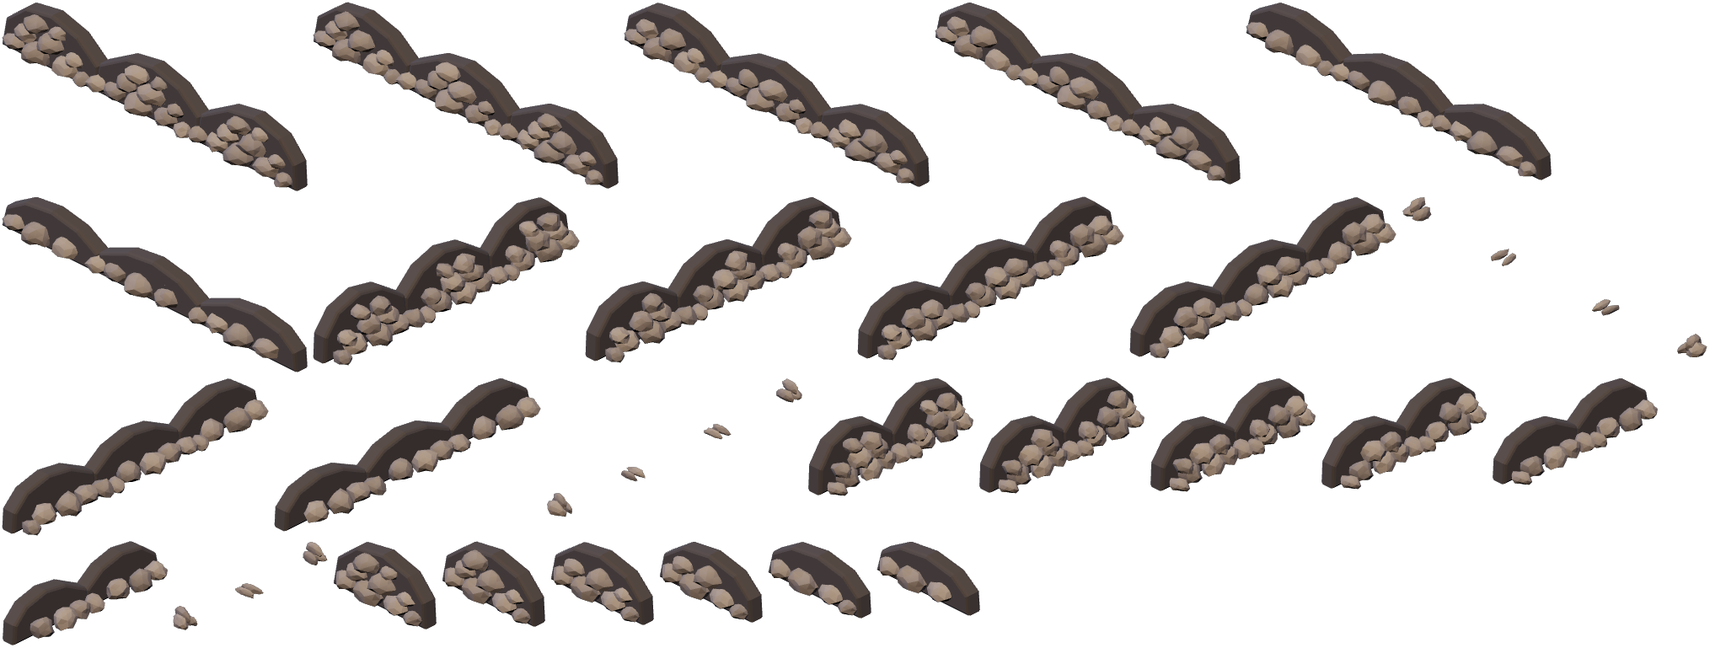
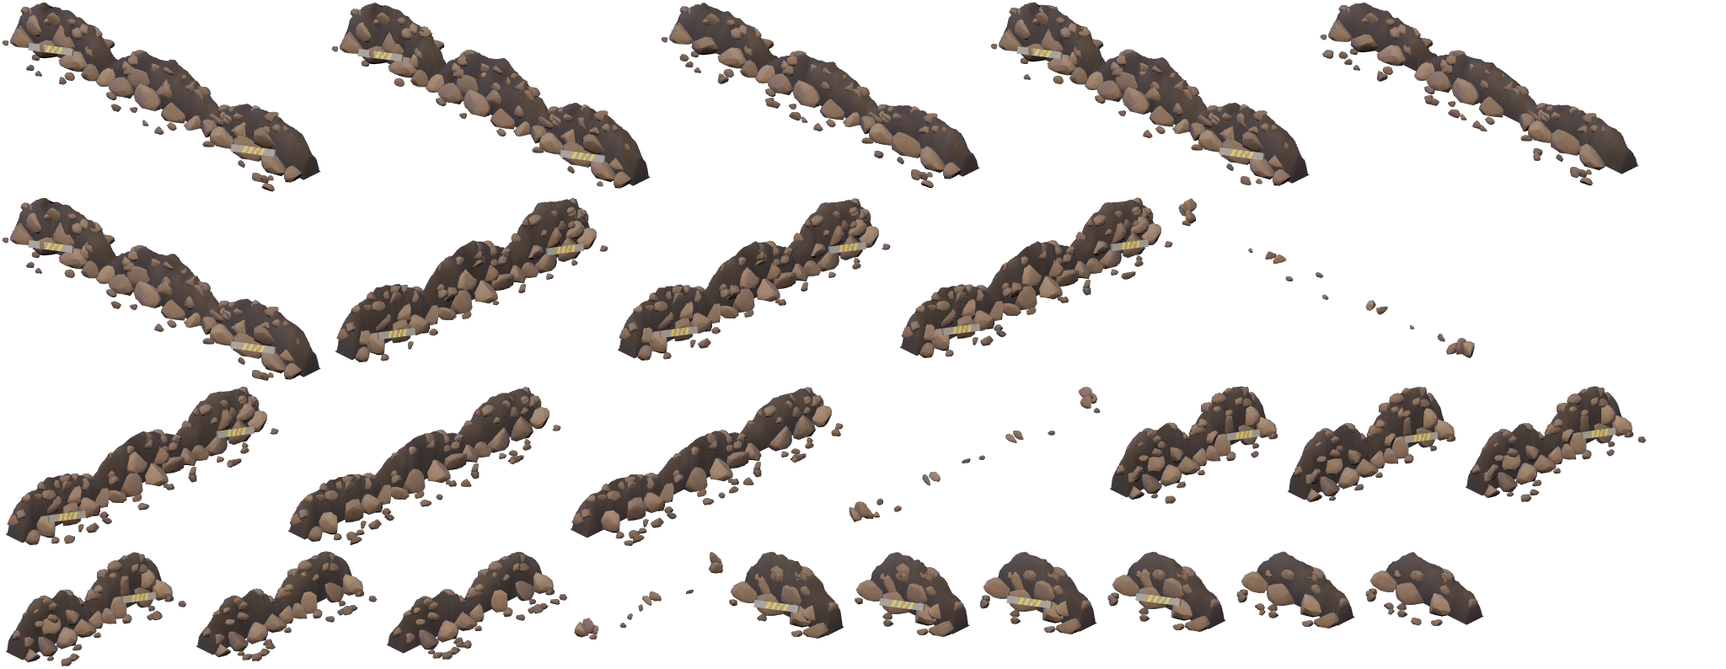
WIP the rubble as a rock fall in the cave's rock: big broken blocks over a dark rubble core, the seams baked on the stones
Claude-Session: https://claude.ai/code/session_0115DZYYhipQqSk6LHvQcEfz

diff --git a/design/cave/bake_rubble.js b/design/cave/bake_rubble.js
@@ -1,10 +1,12 @@
 // THE RUBBLE, MODELLED IN THE CAVE'S ROCK (the owner, 2026-11-09: "update the rubble patches make those look more like a cave rock"; "Approve the walls for everyone, then do the rubble").
-// Every rubble patch a fire technician drills (js/techabilities.js techDrawRubbleOn: the arena's south rubble, the Sewers' gate, bank and collapsed tunnel) is modelled in the walls' rock (design/cave/bake_walls.js):
+// Every rubble patch a fire technician drills (js/techabilities.js techDrawRubbleOn: the arena's south rubble, the Sewers' gate, bank and collapsed tunnel) is modelled as a rock fall in the walls' rock (design/cave/bake_walls.js):
 //   node design/cave/bake_rubble.js <three-dir>
 // 1. boots the game as the tests do and reads each rubble patch (its stretch along the wall, its piles of two tiles, its seed)
-// 2. models each pile's nine stones where the drawn pile had them (_TECH_RUBBLE: along the pile, how high, how wide, how tall), as chunks of the cave's brown rock, softly shaded, over a dark heap
-//    that fills the gap behind them; one picture for each stage of the drilling (the stones shown as the hits go in: 9, 8, 7, 6, 4, 3; the top ones go first) and one of what a drilled choke leaves
-// 3. renders them at the game's camera and scale (the props' lights) and packs them into img/cave/rubble.png; writes js/caverubble.js (each picture's place and where it goes from the patch's start)
+// 2. models it as ONE pile along the whole stretch: a rocky mound shaded as the walls are, angular blocks of the same brown rock over it (the big ones low and in front, the small ones on top), the drawn
+//    pile's hazard-painted slab across it (every other pile of a long one), and, for rubble against a wall, the dark of the hollow it fills behind it. One picture for each stage of the drilling (the stones
+//    shown as the hits go in: 9, 8, 7, 6, 4, 3): the pile lower, its top blocks gone and some lying at its foot, the dark of the hollow showing over it; and one of what a drilled choke leaves
+// 3. renders them at the game's camera and scale (the props' and the walls' lights) and packs them into img/cave/rubble.png; writes js/caverubble.js (each picture's place, where it goes from the patch's start,
+//    and the seams that glow as it is drilled, on the screen from the same point)
 const fs = require('fs'), vm = require('vm'), path = require('path');
 const { chromium } = require('/opt/node22/lib/node_modules/playwright');
 const ROOT = path.join(__dirname, '..', '..');
@@ -31,41 +33,94 @@ window.__pile = function (R, stage) {
   const sm = t => t * t * (3 - 2 * t);
   const n3 = (x, y, z) => { const xi = Math.floor(x), yi = Math.floor(y), zi = Math.floor(z), xf = sm(x - xi), yf = sm(y - yi), zf = sm(z - zi); let v = 0;
     for (let a = 0; a < 2; a++) for (let b = 0; b < 2; b++) for (let c = 0; c < 2; c++) v += h3(xi + a, yi + b, zi + c) * (a ? xf : 1 - xf) * (b ? yf : 1 - yf) * (c ? zf : 1 - zf); return v; };
+  const fbm = (x, y, z) => 0.6 * n3(x, y, z) + 0.3 * n3(x * 2.1, y * 2.1, z * 2.1) + 0.1 * n3(x * 4.3, y * 4.3, z * 4.3);
   const lin = h => new T.Color(h).convertSRGBToLinear();
-  const base = lin(0x4a3f37), dark = lin(0x1d1714), light = lin(0x7a6a5c), tones = [0x52463d, 0x4a3f37, 0x5a4d42, 0x463c35].map(lin);
-  const A = R.a, dir = [(R.b[0] - A[0]) / R.len, (R.b[1] - A[1]) / R.len], n = R.n, W2 = (u, off) => [A[0] + dir[0] * u * R.len + n[0] * off, A[1] + dir[1] * u * R.len + n[1] * off];
-  const rock = window.__MAT || (window.__MAT = (() => { const m = new T.MeshStandardMaterial({ vertexColors: true, roughness: 0.95, metalness: 0, flatShading: false }); m.envMapIntensity = 0.25; return m; })());
+  // the walls' rock (design/cave/bake_walls.js); its blocks a shade lighter, broken rock (the drawn pile's stones were lighter than the cliff round them)
+  const base = lin(0x4a3f37), dark = lin(0x1d1714), light = lin(0x7a6a5c), hollow = lin(0x0b0807), tones = [0x504034, 0x4a3b30, 0x574638, 0x46382d].map(lin), chipT = [0x40332a, 0x3c3027, 0x46382e].map(lin);   // (warm: the props' blue rim light cools their left faces)
+  const A = R.a, L = R.len, dir = [(R.b[0] - A[0]) / L, (R.b[1] - A[1]) / L], n = R.n, segs = R.segs, SEG = L / segs, S0 = (R.seed % 997) + 0.5, rocks = R.rocks;
+  const left = stage === 'left', show = left ? 0 : stage, s = show / 9, sc = 0.55 + 0.45 * s;   // (sc: the dark it fills shrinks as the drawn pile's did)
+  // where things are: u along the stretch (tiles), d out from its line toward the camera's side (tiles), z px up; three's world is (game x, height, game y)
+  const P3 = (u, d, z) => new T.Vector3(A[0] + dir[0] * u + n[0] * d, z / UH, A[1] + dir[1] * u + n[1] * d);
+  const SX = (gx, gy) => (gx - gy - (A[0] - A[1])) * 60, SY = (gx, gy, z) => (gx + gy - (A[0] + A[1])) * 30 - z;   // the screen, from the patch's start at the floor
+  const rowD = zb => zb > 30 ? 0.03 : zb > 10 ? 0.16 : 0.3;   // each row of the pile stands back from the one under it (the bottom row in front)
+  const MAT = window.__MAT || (window.__MAT = (() => { const rock = new T.MeshStandardMaterial({ vertexColors: true, roughness: 0.95, metalness: 0, flatShading: false, side: T.DoubleSide }); rock.envMapIntensity = 0.25;
+    const tex = (() => { const c = document.createElement('canvas'); c.width = 256; c.height = 40; const x = c.getContext('2d'); x.fillStyle = '#625d54'; x.fillRect(0, 0, 256, 40);
+      for (let k = 0; k < 260; k++) { x.fillStyle = 'rgba(40,34,28,' + (0.05 + 0.12 * h3(k, 1, 2)).toFixed(3) + ')'; x.fillRect(h3(k, 3, 4) * 256, h3(k, 5, 6) * 40, 1 + 3 * h3(k, 7, 8), 1 + 2 * h3(k, 9, 1)); }
+      x.fillStyle = '#a3820a'; for (let k = 0; k < 4; k++) { const x0 = 66 + k * 34; x.beginPath(); x.moveTo(x0, 40); x.lineTo(x0 + 15, 40); x.lineTo(x0 + 31, 0); x.lineTo(x0 + 16, 0); x.closePath(); x.fill(); }   // the hazard paint (the drawn slab's four stripes)
+      x.strokeStyle = 'rgba(20,16,12,0.85)'; x.lineWidth = 2; x.beginPath(); x.moveTo(150, 0); x.lineTo(146, 12); x.lineTo(154, 22); x.lineTo(149, 40); x.stroke();   // and its crack
+      const t = new T.CanvasTexture(c); t.encoding = T.sRGBEncoding; return t; })();
+    const painted = new T.MeshStandardMaterial({ map: tex, roughness: 0.85, metalness: 0 }), plain = new T.MeshStandardMaterial({ color: lin(0x47433d), roughness: 0.9, metalness: 0 });
+    painted.envMapIntensity = plain.envMapIntensity = 0.25;
+    return { rock, painted, plain }; })());
   const g = new T.Group();
-  // a stone: a lumpy low-poly chunk of the cave's rock, softly shaded, its top lighter and its underside dark; (u, zb px) its foot, w its width (of the stretch), h px its height
-  const stone = (u, zb, w, h, off, seed, tone) => { const q = new T.IcosahedronGeometry(1, 1), a = q.attributes.position, c2 = new Float32Array(a.count * 3), key = new Map();
-    for (let i = 0; i < a.count; i++) { const x = a.getX(i), y = a.getY(i), z = a.getZ(i), id = Math.round(x * 100) + ',' + Math.round(y * 100) + ',' + Math.round(z * 100);
-      let k = key.get(id); if (k === undefined) { k = 0.78 + 0.44 * n3(x * 2.5 + seed, y * 2.5, z * 2.5 + seed * 0.3); key.set(id, k); }
-      a.setXYZ(i, x * k, Math.max(y * k, -0.55), z * k);
-      const up = 0.5 + 0.5 * y, cc = tone.clone().lerp(light, Math.max(0, up - 0.55) * 0.7).lerp(dark, Math.max(0, 0.4 - up) * 1.1); c2[i * 3] = cc.r; c2[i * 3 + 1] = cc.g; c2[i * 3 + 2] = cc.b; }
-    q.setAttribute('color', new T.BufferAttribute(c2, 3)); q.computeVertexNormals();
-    const m = new T.Mesh(q, rock), Wt = w * R.len / 2, Hu = h / UH / 2, Dt = Math.min(0.32, Math.max(0.16, Wt * 0.9)), c = W2(u, off);
-    m.scale.set(Wt, Hu, Dt); m.rotation.y = -Math.atan2(dir[1], dir[0]) + (h3(seed, 2, 5) - 0.5) * 0.5; m.position.set(c[0], (zb + h * 0.42) / UH, c[1]); g.add(m); };
-  const segs = R.segs, rocks = R.rocks;
-  if (stage === 'left') {   // what a drilled choke leaves: stones at the foot of each side, and where the piles met
-    [[0.1, 0, 0.1], [0.19, 0, 0.07], [0.9, 0, 0.11], [0.8, 0, 0.06], [0.14, 8, 0.06], [0.87, 7, 0.07]].forEach(([u, z, w], k) => stone(u < 0.5 ? u / segs : 1 - (1 - u) / segs, z, w / segs, 12 + (k % 3) * 3, 0.12, R.seed + k * 13, tones[k % 4]));
-    for (let sg = 1; sg < segs; sg++) [[-0.04, 0.05], [0.05, 0.035]].forEach(([du, w], k) => stone((sg + du) / segs, 0, w / segs, 10, 0.12, R.seed + sg * 31 + k, tones[(sg + k) % 4]));
-  } else {
-    const show = stage;
-    for (let sg = 0; sg < segs; sg++) {
-      const seed = (R.seed + sg * 7919) >>> 0, U = u => (sg + u) / segs;
-      // the dark heap behind the stones (the gap the pile fills): a low mound along the pile, against the wall
-      const u0 = sg ? 0 : 0.08, u1 = sg === segs - 1 ? 0.95 : 1, prof = [[u0, 0], [u0 + 0.04, 30], [0.3, 52], [0.55, 58], [0.8, 48], [u1 - 0.01, 26], [u1, 0]].map(([u, z]) => [u, z * (0.55 + 0.45 * show / 9)]);
-      const heap = new T.Shape(); prof.forEach(([u, z], i) => { const x = U(u) * R.len; i ? heap.lineTo(x, z / UH) : heap.moveTo(x, z / UH); });
-      const hg = new T.ExtrudeGeometry(heap, { depth: 0.16, bevelEnabled: true, bevelThickness: 0.05, bevelSize: 0.04, bevelSegments: 2 }), hc = new Float32Array(hg.attributes.position.count * 3);
-      for (let i = 0; i < hg.attributes.position.count; i++) { const cc = dark.clone().lerp(base, 0.25); hc[i * 3] = cc.r; hc[i * 3 + 1] = cc.g; hc[i * 3 + 2] = cc.b; }
-      hg.setAttribute('color', new T.BufferAttribute(hc, 3)); hg.computeVertexNormals();
-      const hm = new T.Mesh(hg, rock); hm.rotation.y = -Math.atan2(dir[1], dir[0]); hm.position.set(A[0] - n[0] * 0.08, 0, A[1] - n[1] * 0.08); g.add(hm);
-      for (let k = 0; k < Math.min(show, rocks.length); k++) { const [uc, zb, w, h] = rocks[k]; stone(U(uc), zb, w / segs, h, 0.1 + 0.06 * (k % 2), seed + k * 17, tones[(k + seed) % 4]); }
-      if (sg && show > 2) stone(U(0.02), 0, 0.18 / segs, 20, 0.12, seed + 11, tones[(seed + 3) % 4]);   // (a boulder across the joint with the pile before it)
-    }
+  // THE DARK THE PILE FILLS (the drawn pile's dark gap, two tiles to a pile, shrinking as it is drilled): a lumpy mound of the rock in shadow behind and under the blocks, its top ragged
+  const core = u => { const sg = Math.min(segs - 1, Math.max(0, Math.floor(u / SEG))), x = u / SEG - sg, u0 = sg ? 0 : 0.08, u1 = sg === segs - 1 ? 0.95 : 1;
+    const pts = [[u0, sg ? 22 : 0], [u0 + 0.04, 30], [0.3, 52], [0.55, 58], [0.8, 48], [u1 - 0.01, 26], [u1, sg < segs - 1 ? 22 : 0]];   // (where two piles meet the dark carries on, lower)
+    if (x <= pts[0][0] || x >= pts[pts.length - 1][0]) return x <= pts[0][0] ? pts[0][1] * (x >= pts[0][0] - 1e-6 ? 1 : 0) : pts[pts.length - 1][1] * (x <= pts[pts.length - 1][0] + 1e-6 ? 1 : 0);
+    for (let k = 1; k < pts.length; k++) if (x <= pts[k][0]) { const t = (x - pts[k - 1][0]) / (pts[k][0] - pts[k - 1][0]); return pts[k - 1][1] + (pts[k][1] - pts[k - 1][1]) * t; } return 0; };
+  const coreH = u => core(u) * sc * (0.9 + 0.2 * fbm(S0 + u * 4.3, 1.1, 3.7));
+  const dC = t => 0.04 + t * (t >= 0 ? 0.2 : 0.14), pr = t => Math.pow(Math.max(0, 1 - t * t), 0.6);   // (across it: t -1 its back, 0 its top, 1 its front foot)
+  if (!left) { const pos = [], col = [], idx = [], NU = Math.max(12, Math.ceil(L / 0.03)), NT = 10, grid = [];
+    for (let i = 0; i <= NU; i++) { const u = L * i / NU, H = coreH(u), row = [];
+      for (let j = 0; j <= NT; j++) { const t = -1 + 2 * j / NT, z0 = H * pr(t), w = P3(u, dC(t), 0), big = fbm(w.x * 3.1 + 3, z0 / UH * 3 + 1, w.z * 3.1 + 1.7), small = fbm(w.x * 8.3, z0 / UH * 7 + 9, w.z * 8.3 + 5.3);
+        const inner = Math.abs(t) < 1 && z0 > 2 ? 1 : 0, bump = ((big - 0.5) * 0.6 + (small - 0.5) * 0.3) * inner, z = Math.max(0, z0 + bump * 16), k = Math.max(0, Math.min(1, 0.5 + (big - 0.5) * 1.6 + (small - 0.5) * 0.6));
+        const c = dark.clone().lerp(base, 0.08 + 0.32 * k).lerp(hollow, 0.4 * (1 - Math.min(1, z / 20))), v = P3(u, dC(t) + bump * 0.12 * (t < 0 ? -1 : 1), z);
+        pos.push(v.x, v.y, v.z); col.push(c.r, c.g, c.b); row.push(pos.length / 3 - 1); }
+      grid.push(row); }
+    for (let i = 0; i < NU; i++) for (let j = 0; j < NT; j++) { const a = grid[i][j], b = grid[i + 1][j], c = grid[i + 1][j + 1], d = grid[i][j + 1];
+      if (Math.max(pos[a * 3 + 1], pos[b * 3 + 1], pos[c * 3 + 1], pos[d * 3 + 1]) * UH < 0.5) continue; idx.push(a, b, c, a, c, d); }   // (none flat on the floor where the dark is nothing)
+    const i0 = Math.floor(NU / 2), j0 = Math.floor(NT / 2), q = k => new T.Vector3(pos[k * 3], pos[k * 3 + 1], pos[k * 3 + 2]), pa = q(grid[i0][j0]);   // (its winding: every triangle's front up, so it is lit)
+    if (new T.Vector3().subVectors(q(grid[i0 + 1][j0]), pa).cross(new T.Vector3().subVectors(q(grid[i0 + 1][j0 + 1]), pa)).y < 0) for (let k = 0; k < idx.length; k += 3) { const t = idx[k + 1]; idx[k + 1] = idx[k + 2]; idx[k + 2] = t; }
+    const geo = new T.BufferGeometry(); geo.setAttribute('position', new T.Float32BufferAttribute(pos, 3)); geo.setAttribute('color', new T.Float32BufferAttribute(col, 3)); geo.setIndex(idx); geo.computeVertexNormals();
+    g.add(new T.Mesh(geo, MAT.rock)); }
+  // A BLOCK of the rock, broken: a lumpy low-poly lump cut flat where it broke, softly lit with its facets still showing, its top a little lighter and its underside dark
+  const keyOf = (a, v) => Math.round(a.getX(v) * 1e4) + ',' + Math.round(a.getY(v) * 1e4) + ',' + Math.round(a.getZ(v) * 1e4);
+  const block = (u, d, zb, rx, ry, rz, seed, tone) => { const q = new T.IcosahedronGeometry(1, 1), a = q.attributes.position, cnt = a.count, kk = new Map(), cuts = [];
+    for (let c = 0; c < 4; c++) { const th = (h3(seed, c, 1) + c * 0.25) * 2 * PI, ph = (h3(seed, c, 2) - 0.3) * 1.2; cuts.push([new T.Vector3(Math.cos(th) * Math.cos(ph), Math.sin(ph), Math.sin(th) * Math.cos(ph)), 0.38 + 0.24 * h3(seed, c, 3)]); }
+    for (let v = 0; v < cnt; v++) { const x = a.getX(v), y = a.getY(v), z = a.getZ(v), id = Math.round(x * 1e3) + ',' + Math.round(y * 1e3) + ',' + Math.round(z * 1e3);
+      let P = kk.get(id); if (!P) { const k = 0.85 + 0.3 * n3(x * 1.7 + seed, y * 1.7, z * 1.7 + seed * 0.37); P = new T.Vector3(x * k, y * k, z * k);   // (a corner moved the same way on every face it is on: no cracks)
+        for (const [m, o] of cuts) { const dd = P.dot(m) - o; if (dd > 0) P.addScaledVector(m, -dd); }   // (flat where it broke)
+        P.y = Math.max(P.y, -0.55); kk.set(id, P); }
+      a.setXYZ(v, P.x, P.y, P.z); }
+    const acc = new Map(), fn = [], e1 = new T.Vector3(), e2 = new T.Vector3(), p0 = new T.Vector3(), p1 = new T.Vector3(), p2 = new T.Vector3();
+    for (let v = 0; v < cnt; v += 3) { p0.fromBufferAttribute(a, v); p1.fromBufferAttribute(a, v + 1); p2.fromBufferAttribute(a, v + 2); const nn = e1.subVectors(p1, p0).clone().cross(e2.subVectors(p2, p0));
+      for (let w = 0; w < 3; w++) { const id = keyOf(a, v + w), s2 = acc.get(id); if (s2) s2.add(nn); else acc.set(id, nn.clone()); } fn.push(nn.normalize()); }
+    const nrm = new Float32Array(cnt * 3), c2 = new Float32Array(cnt * 3);
+    for (let v = 0; v < cnt; v++) { const f = fn[Math.floor(v / 3)], m = acc.get(keyOf(a, v)).clone().normalize().multiplyScalar(0.35).add(f.clone().multiplyScalar(0.65)).normalize(); nrm[v * 3] = m.x; nrm[v * 3 + 1] = m.y; nrm[v * 3 + 2] = m.z;
+      const y = a.getY(v), c = tone.clone().multiplyScalar(0.94 + 0.12 * h3(seed, Math.floor(v / 3), 7)).lerp(light, Math.max(0, y) * 0.12).lerp(dark, Math.max(0, -y - 0.1) * 1.0); c2[v * 3] = c.r; c2[v * 3 + 1] = c.g; c2[v * 3 + 2] = c.b; }
+    q.setAttribute('normal', new T.BufferAttribute(nrm, 3)); q.setAttribute('color', new T.BufferAttribute(c2, 3));
+    const m = new T.Mesh(q, MAT.rock), c = P3(u, d, 0); m.scale.set(rx, ry, rz);
+    m.rotation.set((h3(seed, 4, 4) - 0.5) * 0.3, -Math.atan2(dir[1], dir[0]) + (h3(seed, 5, 5) - 0.5) * 0.6, (h3(seed, 6, 6) - 0.5) * 0.3); m.position.set(c.x, (zb / UH) + ry * 0.5, c.z); g.add(m); };
+  if (!left) for (let sg = 0; sg < segs; sg++) { const seed = (R.seed + sg * 7919) >>> 0, U = u => (sg + u) * SEG, sd = k => (seed % 1009) + k * 13.7;
+    // THE STONES of the drawn pile, where it had them, as big blocks of the rock (the top ones go first as it is drilled), and one across the joint with the pile before it
+    for (let k = 0; k < Math.min(show, rocks.length); k++) { const [uc, zb, w, h] = rocks[k], rx = w * SEG / 2 * 1.15, ry = h / UH / 2 * 1.12;
+      block(U(uc), rowD(zb), Math.max(0, zb - 3), rx, ry, 0.15 + 0.05 * h3(sd(k), 1, 1), sd(k), tones[(k + seed) % tones.length]); }
+    if (sg && show > 2) block(U(0.02), 0.26, 0, 0.18 * SEG / 2 * 1.1, 20 / UH / 2 * 1.1, 0.16, sd(11), tones[(seed + 3) % tones.length]);
+    // the dark is rubble too: blocks half sunk in it all over, darker (in its shadow)
+    for (let k = 0; k < 14; k++) { const u = U(0.06 + 0.88 * h3(sd(k), 11, 1)), t = -0.2 + 0.95 * h3(sd(k), 12, 2), zc = coreH(u) * pr(t), r = 0.06 + 0.06 * h3(sd(k), 13, 3);
+      if (zc < 8) continue; block(u, dC(t), Math.max(0, zc - r * 0.8 * UH * 1.1), r * 1.3, r * 0.8, r, sd(k) + 170, chipT[k % chipT.length].clone().lerp(tones[k % tones.length], 0.5)); }
+    // smaller stones in its crevices and along its crest, and at its foot; what the drilling knocks off lies further out
+    for (let k = 0; k < 3; k++) { const u = U(0.16 + 0.32 * k + 0.1 * (h3(sd(k), 2, 3) - 0.5)), r = 0.045 + 0.03 * h3(sd(k), 3, 4); block(u, 0.5 + 0.06 * h3(sd(k), 4, 5), 0, r * 1.3, r * 0.8, r, sd(k) + 50, chipT[k % chipT.length]); }
+    for (let k = 0; k < 3; k++) { const u = U(0.3 + 0.21 * k + 0.06 * (h3(sd(k), 6, 7) - 0.5)), r = 0.05 + 0.03 * h3(sd(k), 7, 8), zc = coreH(u); if (zc > 12) block(u, 0.0, zc - 10, r * 1.3, r * 0.8, r, sd(k) + 90, chipT[(k + 1) % chipT.length]); }
+    for (let k = 0; k < 9 - show; k++) { const u = U(0.12 + 0.76 * h3(sd(k), 8, 9)), r = 0.05 + 0.035 * h3(sd(k), 9, 1); block(u, 0.62 + 0.18 * h3(sd(k), 1, 2), 0, r * 1.3, r * 0.8, r, sd(k) + 130, chipT[k % chipT.length]); }
+  } else {   // what a drilled choke leaves (the drawn pile's): blocks at the foot of each side and where the piles met
+    for (const [u, z, w, k] of [[0.1, 0, 0.1, 0], [0.19, 0, 0.07, 1], [0.9, 0, 0.11, 2], [0.8, 0, 0.06, 3], [0.14, 8, 0.06, 4], [0.87, 7, 0.07, 5]]) { const U = u < 0.5 ? u / segs : 1 - (1 - u) / segs;
+      block(U * L, 0.2 + 0.08 * (k % 2), Math.max(0, z - 2), w * L / segs / 2 * 1.2, (12 + 3 * (k % 3)) / UH / 2 * 1.1, 0.13, S0 + k * 13, tones[k % tones.length]); }
+    for (let sg = 1; sg < segs; sg++) [[-0.04, 0.05], [0.05, 0.035]].forEach(([du, w], k) => block((sg + du) * SEG, 0.22, 0, w * SEG / 2 * 1.2, 10 / UH / 2 * 1.1, 0.12, S0 + sg * 31 + k, tones[(sg + k) % tones.length]));
+    for (let k = 0; k < Math.round(L * 1.5); k++) { const r = 0.035 + 0.02 * h3(S0, k, 3); block(L * (0.06 + 0.88 * h3(S0, k, 1)), 0.1 + 0.4 * h3(S0, k, 2), 0, r * 1.3, r * 0.8, r, S0 + 200 + k, chipT[k % chipT.length]); }
   }
+  // THE SLAB, hazard-painted, across the pile (the drawn pile's: on every other pile of a long one, gone after the fourth hit), leaning on its bottom row
+  if (!left && show > 4) for (let sg = 0; sg < segs; sg++) { if (!(segs === 1 || (sg + (R.seed & 1)) % 2 === 0)) continue;
+    const m = new T.Mesh(new T.BoxGeometry(0.4 * SEG, 0.1, 0.03), [MAT.plain, MAT.plain, MAT.plain, MAT.plain, MAT.painted, MAT.painted]);
+    const ex = new T.Vector3(dir[0], 0, dir[1]), ey = new T.Vector3(0, 1, 0), ez = new T.Vector3().crossVectors(ex, ey), toCam = ez.x * n[0] + ez.z * n[1] > 0 ? 1 : -1;
+    m.quaternion.setFromRotationMatrix(new T.Matrix4().makeBasis(ex, ey, ez)).multiply(new T.Quaternion().setFromAxisAngle(new T.Vector3(1, 0, 0), -toCam * 0.45)).multiply(new T.Quaternion().setFromAxisAngle(new T.Vector3(0, 0, 1), 0.26));   // its top leaning back, rising along the pile
+    m.position.copy(P3((sg + 0.55) * SEG, 0.42, 16)); g.add(m); }
+  // THE SEAMS that glow as it is drilled (js/techabilities.js draws them): the drawn pile's three to a pile, on the front of its stones, lower as the pile is
+  const seams = [];
+  if (!left) for (let sg = 0; sg < segs; sg++) for (const sq of [[[0.32, 0], [0.33, 14], [0.46, 26], [0.5, 40]], [[0.58, 0], [0.6, 18], [0.7, 30]], [[0.2, 20], [0.36, 36], [0.44, 50]]]) { const pts = [];
+    for (const [u, z] of sq) { const zz = z * sc, w = P3((sg + u) * SEG, rowD(zz) + 0.12, zz); pts.push(Math.round(SX(w.x, w.z) * 10) / 10, Math.round(SY(w.x, w.z, zz) * 10) / 10); }
+    seams.push(pts); }
   // the screen box, from the patch's start A at the floor
-  const SX = (gx, gy) => (gx - gy - (A[0] - A[1])) * 60, SY = (gx, gy, z) => (gx + gy - (A[0] + A[1])) * 30 - z;
   let x0 = 1e9, y0 = 1e9, x1 = -1e9, y1 = -1e9; g.updateMatrixWorld(true);
   g.traverse(o => { if (!o.isMesh) return; const a = o.geometry.attributes.position, v = new T.Vector3(); for (let i = 0; i < a.count; i++) { v.fromBufferAttribute(a, i).applyMatrix4(o.matrixWorld); const sx = SX(v.x, v.z), sy = SY(v.x, v.z, v.y * UH); if (sx < x0) x0 = sx; if (sx > x1) x1 = sx; if (sy < y0) y0 = sy; if (sy > y1) y1 = sy; } });
   const M = 3, W = Math.ceil(x1 - x0) + 2 * M, H = Math.ceil(y1 - y0) + 2 * M, cx = Math.round(-x0 + M), cy = Math.round(-y0 + M);
@@ -82,7 +137,7 @@ window.__pile = function (R, stage) {
   renderer.setSize(W, H, false); renderer.render(scene, cam);
   const cv = document.createElement('canvas'); cv.width = W; cv.height = H; cv.getContext('2d').drawImage(renderer.domElement, 0, 0);
   scene.traverse(o => { if (o.geometry) o.geometry.dispose(); });
-  return { w: W, h: H, dx: -cx, dy: -cy, png: cv.toDataURL('image/png') };
+  return { w: W, h: H, dx: -cx, dy: -cy, seams, png: cv.toDataURL('image/png') };
 };
 </script></body></html>`;
   const b = await chromium.launch({ args: ['--no-sandbox', '--use-gl=swiftshader', '--enable-webgl', '--ignore-gpu-blocklist', '--enable-unsafe-swiftshader'] });
@@ -105,9 +160,10 @@ window.__pile = function (R, stage) {
   await b.close();
   fs.mkdirSync(path.join(ROOT, 'img', 'cave'), { recursive: true }); fs.writeFileSync(path.join(ROOT, 'img', 'cave', 'rubble.png'), Buffer.from(png.split(',')[1], 'base64'));
   const atlas = { sheet: 'img/cave/rubble.png', w: SW, h: SH, shows: SHOWS, items: {} };
-  for (const s of pics) { (atlas.items[s.id] = atlas.items[s.id] || {})[s.stage] = ['rubble', s.x, s.y, s.w, s.h, s.dx, s.dy]; }
+  for (const s of pics) { (atlas.items[s.id] = atlas.items[s.id] || {})[s.stage] = ['rubble', s.x, s.y, s.w, s.h, s.dx, s.dy, s.seams]; }
   const js = '// THE RUBBLE, MODELLED IN THE CAVE\'S ROCK: written by design/cave/bake_rubble.js (do not edit by hand; bake again when the rubble changes).\n' +
-    '// items: a rubble patch\'s id -> its pictures: "9" ... "3" (the stones shown as the drilling goes in), "left" (what a drilled choke leaves) -> [sheet, x, y, w, h, dx, dy]: drawn with its top-left at (dx, dy) from the screen point of the patch\'s start.\n' +
+    '// items: a rubble patch\'s id -> its pictures: "9" ... "3" (the stones shown as the drilling goes in), "left" (what a drilled choke leaves) -> [sheet, x, y, w, h, dx, dy, seams]: drawn with its top-left at (dx, dy)\n' +
+    '// from the screen point of the patch\'s start; seams: the lines that glow as it is drilled, each [x, y, x, y, ...] on the screen from the same point (three to a pile of two tiles).\n' +
     'const CAVE_RUBBLE = ' + JSON.stringify(atlas) + ';\n';
   fs.writeFileSync(path.join(ROOT, 'js', 'caverubble.js'), js);
   console.log('img/cave/rubble.png: ' + SW + ' x ' + SH + ', ' + pics.length + ' pictures; wrote js/caverubble.js');

diff --git a/js/caverubble.js b/js/caverubble.js
@@ -1,3 +1,4 @@
 // THE RUBBLE, MODELLED IN THE CAVE'S ROCK: written by design/cave/bake_rubble.js (do not edit by hand; bake again when the rubble changes).
-// items: a rubble patch's id -> its pictures: "9" ... "3" (the stones shown as the drilling goes in), "left" (what a drilled choke leaves) -> [sheet, x, y, w, h, dx, dy]: drawn with its top-left at (dx, dy) from the screen point of the patch's start.
-const CAVE_RUBBLE = {"sheet":"img/cave/rubble.png","w":2048,"h":769,"shows":[9,8,7,6,4,3],"items":{"rubble_sewer_choke":{"3":["rubble",0,231,368,214,-2,-27],"4":["rubble",1476,0,368,217,-2,-30],"6":["rubble",1107,0,368,222,-2,-35],"7":["rubble",738,0,368,225,-2,-38],"8":["rubble",369,0,368,227,-2,-40],"9":["rubble",0,0,368,230,-2,-43],"left":["rubble",1661,231,367,197,-11,-15]},"rubble_sewer_bank":{"3":["rubble",323,446,322,188,-316,-35],"4":["rubble",0,446,322,193,-316,-38],"6":["rubble",1338,231,322,198,-316,-43],"7":["rubble",1015,231,322,200,-316,-45],"8":["rubble",692,231,322,203,-316,-48],"9":["rubble",369,231,322,206,-316,-51],"left":["rubble",646,446,309,170,-298,-17]},"rubble_sewer_gate":{"3":["rubble",0,640,202,129,-197,-36],"4":["rubble",1768,446,202,133,-197,-39],"6":["rubble",1565,446,202,138,-197,-44],"7":["rubble",1362,446,202,141,-197,-47],"8":["rubble",1159,446,202,143,-197,-49],"9":["rubble",956,446,202,146,-197,-52],"left":["rubble",203,640,189,111,-175,-17]},"rubble_arena_south":{"3":["rubble",1038,640,128,94,-2,-27],"4":["rubble",909,640,128,97,-2,-30],"6":["rubble",780,640,128,102,-2,-35],"7":["rubble",651,640,128,105,-2,-38],"8":["rubble",522,640,128,107,-2,-40],"9":["rubble",393,640,128,110,-2,-43]}}};
+// items: a rubble patch's id -> its pictures: "9" ... "3" (the stones shown as the drilling goes in), "left" (what a drilled choke leaves) -> [sheet, x, y, w, h, dx, dy, seams]: drawn with its top-left at (dx, dy)
+// from the screen point of the patch's start; seams: the lines that glow as it is drilled, each [x, y, x, y, ...] on the screen from the same point (three to a pile of two tiles).
+const CAVE_RUBBLE = {"sheet":"img/cave/rubble.png","w":2048,"h":794,"shows":[9,8,7,6,4,3],"items":{"rubble_sewer_choke":{"3":["rubble",1564,0,390,224,-20,-22,[[13.2,31.8,14.4,22.6,38.4,17.8,43.2,10.4],[44.4,47.4,55.2,31.8,67.2,29.4],[7.2,6.4,26.4,4.8,43.8,-4.1],[133.2,91.8,134.4,82.6,158.4,77.8,163.2,70.4],[164.4,107.4,175.2,91.8,187.2,89.4],[127.2,66.4,146.4,64.8,163.8,55.9],[253.2,151.8,254.4,142.6,278.4,137.8,283.2,130.4],[284.4,167.4,295.2,151.8,307.2,149.4],[247.2,126.4,266.4,124.8,283.8,115.9]]],"4":["rubble",782,0,390,227,-20,-25,[[13.2,31.8,22.8,17.7,38.4,16.5,43.2,8.4],[44.4,47.4,55.2,30.9,67.2,27.9],[7.2,5.4,26.4,3,43.8,-6.6],[133.2,91.8,142.8,77.7,158.4,76.5,163.2,68.4],[164.4,107.4,175.2,90.9,187.2,87.9],[127.2,65.4,146.4,63,163.8,53.4],[253.2,151.8,262.8,137.7,278.4,136.5,283.2,128.4],[284.4,167.4,295.2,150.9,307.2,147.9],[247.2,125.4,266.4,123,283.8,113.4]]],"6":["rubble",0,0,390,231,-20,-29,[[13.2,31.8,22.8,16.3,38.4,13.9,51,0.5],[44.4,47.4,55.2,29.1,67.2,24.9],[7.2,3.4,34.2,-4.5,43.8,-11.6],[133.2,91.8,142.8,76.3,158.4,73.9,171,60.5],[164.4,107.4,175.2,89.1,187.2,84.9],[127.2,63.4,154.2,55.5,163.8,48.4],[253.2,151.8,262.8,136.3,278.4,133.9,291,120.5],[284.4,167.4,295.2,149.1,307.2,144.9],[247.2,123.4,274.2,115.5,283.8,108.4]]],"7":["rubble",0,232,390,223,-20,-31,[[13.2,31.8,22.8,15.6,38.4,12.6,51,-1.5],[44.4,47.4,55.2,28.2,67.2,23.4],[7.2,2.4,34.2,-6.3,43.8,-14.1],[133.2,91.8,142.8,75.6,158.4,72.6,171,58.5],[164.4,107.4,175.2,88.2,187.2,83.4],[127.2,62.4,154.2,53.7,163.8,45.9],[253.2,151.8,262.8,135.6,278.4,132.6,291,118.5],[284.4,167.4,295.2,148.2,307.2,143.4],[247.2,122.4,274.2,113.7,283.8,105.9]]],"8":["rubble",1173,0,390,225,-20,-33,[[13.2,31.8,22.8,14.9,38.4,11.3,51,-3.5],[44.4,47.4,55.2,27.3,67.2,21.9],[7.2,1.4,34.2,-8.1,43.8,-16.6],[133.2,91.8,142.8,74.9,158.4,71.3,171,56.5],[164.4,107.4,175.2,87.3,187.2,81.9],[127.2,61.4,154.2,51.9,163.8,43.4],[253.2,151.8,262.8,134.9,278.4,131.3,291,116.5],[284.4,167.4,295.2,147.3,307.2,141.9],[247.2,121.4,274.2,111.9,283.8,103.4]]],"9":["rubble",391,0,390,227,-20,-36,[[13.2,31.8,22.8,14.2,38.4,10,51,-5.5],[44.4,47.4,55.2,26.4,67.2,20.4],[7.2,0.4,34.2,-9.9,43.8,-19.1],[133.2,91.8,142.8,74.2,158.4,70,171,54.5],[164.4,107.4,175.2,86.4,187.2,80.4],[127.2,60.4,154.2,50.1,163.8,40.9],[253.2,151.8,262.8,134.2,278.4,130,291,114.5],[284.4,167.4,295.2,146.4,307.2,140.4],[247.2,120.4,274.2,110.1,283.8,100.9]]],"left":["rubble",1396,232,357,196,-10,-9,[]]},"rubble_sewer_bank":{"3":["rubble",670,456,334,195,-309,-27,[[-6.8,28.6,-7.8,19.3,-29.2,13.2,-33.2,5.4],[-32.8,41.6,-43.2,25.8,-53.2,22.4],[-3.2,4.4,-19.2,1.2,-35,-8.5],[-106.8,78.6,-107.8,69.3,-129.2,63.2,-133.2,55.4],[-132.8,91.6,-143.2,75.8,-153.2,72.4],[-103.2,54.4,-119.2,51.2,-135,41.5],[-206.8,128.6,-207.8,119.3,-229.2,113.2,-233.2,105.4],[-232.8,141.6,-243.2,125.8,-253.2,122.4],[-203.2,104.4,-219.2,101.2,-235,91.5]]],"4":["rubble",335,456,334,195,-309,-29,[[-6.8,28.6,-16.2,14.4,-29.2,11.9,-33.2,3.4],[-32.8,41.6,-43.2,24.9,-53.2,20.9],[-3.2,3.4,-19.2,-0.6,-35,-11],[-106.8,78.6,-116.2,64.4,-129.2,61.9,-133.2,53.4],[-132.8,91.6,-143.2,74.9,-153.2,70.9],[-103.2,53.4,-119.2,49.4,-135,39],[-206.8,128.6,-216.2,114.4,-229.2,111.9,-233.2,103.4],[-232.8,141.6,-243.2,124.9,-253.2,120.9],[-203.2,103.4,-219.2,99.4,-235,89]]],"6":["rubble",0,456,334,195,-309,-33,[[-6.8,28.6,-16.2,13,-29.2,9.3,-41,-4.5],[-32.8,41.6,-43.2,23.1,-53.2,17.9],[-3.2,1.4,-27,-8.1,-35,-16],[-106.8,78.6,-116.2,63,-129.2,59.3,-141,45.5],[-132.8,91.6,-143.2,73.1,-153.2,67.9],[-103.2,51.4,-127,41.9,-135,34],[-206.8,128.6,-216.2,113,-229.2,109.3,-241,95.5],[-232.8,141.6,-243.2,123.1,-253.2,117.9],[-203.2,101.4,-227,91.9,-235,84]]],"7":["rubble",1061,232,334,197,-309,-35,[[-6.8,28.6,-16.2,12.3,-29.2,8,-41,-6.5],[-32.8,41.6,-43.2,22.2,-53.2,16.4],[-3.2,0.4,-27,-9.9,-35,-18.5],[-106.8,78.6,-116.2,62.3,-129.2,58,-141,43.5],[-132.8,91.6,-143.2,72.2,-153.2,66.4],[-103.2,50.4,-127,40.1,-135,31.5],[-206.8,128.6,-216.2,112.3,-229.2,108,-241,93.5],[-232.8,141.6,-243.2,122.2,-253.2,116.4],[-203.2,100.4,-227,90.1,-235,81.5]]],"8":["rubble",726,232,334,199,-309,-38,[[-6.8,28.6,-16.2,11.6,-29.2,6.7,-41,-8.5],[-32.8,41.6,-43.2,21.3,-53.2,14.9],[-3.2,-0.6,-27,-11.7,-35,-21],[-106.8,78.6,-116.2,61.6,-129.2,56.7,-141,41.5],[-132.8,91.6,-143.2,71.3,-153.2,64.9],[-103.2,49.4,-127,38.3,-135,29],[-206.8,128.6,-216.2,111.6,-229.2,106.7,-241,91.5],[-232.8,141.6,-243.2,121.3,-253.2,114.9],[-203.2,99.4,-227,88.3,-235,79]]],"9":["rubble",391,232,334,201,-309,-40,[[-6.8,28.6,-16.2,10.9,-29.2,5.4,-41,-10.5],[-32.8,41.6,-43.2,20.4,-53.2,13.4],[-3.2,-1.6,-27,-13.5,-35,-23.5],[-106.8,78.6,-116.2,60.9,-129.2,55.4,-141,39.5],[-132.8,91.6,-143.2,70.4,-153.2,63.4],[-103.2,48.4,-127,36.5,-135,26.5],[-206.8,128.6,-216.2,110.9,-229.2,105.4,-241,89.5],[-232.8,141.6,-243.2,120.4,-253.2,113.4],[-203.2,98.4,-227,86.5,-235,76.5]]],"left":["rubble",1005,456,304,167,-287,-8,[]]},"rubble_sewer_gate":{"3":["rubble",452,652,225,134,-189,-28,[[-3.6,27,-4.5,17.7,-24.6,10.9,-28.2,2.9],[-27,38.7,-37.2,22.8,-46.2,18.9],[-1.2,3.4,-15.6,-0.6,-30.6,-10.7],[-93.6,72,-94.5,62.7,-114.6,55.9,-118.2,47.9],[-117,83.7,-127.2,67.8,-136.2,63.9],[-91.2,48.4,-105.6,44.4,-120.6,34.3]]],"4":["rubble",226,652,225,137,-189,-30,[[-3.6,27,-12.9,12.8,-24.6,9.6,-28.2,0.9],[-27,38.7,-37.2,21.9,-46.2,17.4],[-1.2,2.4,-15.6,-2.4,-30.6,-13.2],[-93.6,72,-102.9,57.8,-114.6,54.6,-118.2,45.9],[-117,83.7,-127.2,66.9,-136.2,62.4],[-91.2,47.4,-105.6,42.6,-120.6,31.8]]],"6":["rubble",0,652,225,142,-189,-36,[[-3.6,27,-12.9,11.4,-24.6,7,-36,-7],[-27,38.7,-37.2,20.1,-46.2,14.4],[-1.2,0.4,-23.4,-9.9,-30.6,-18.2],[-93.6,72,-102.9,56.4,-114.6,52,-126,38],[-117,83.7,-127.2,65.1,-136.2,59.4],[-91.2,45.4,-113.4,35.1,-120.6,26.8]]],"7":["rubble",1732,456,225,144,-189,-37,[[-3.6,27,-12.9,10.7,-24.6,5.7,-36,-9],[-27,38.7,-37.2,19.2,-46.2,12.9],[-1.2,-0.6,-23.4,-11.7,-30.6,-20.7],[-93.6,72,-102.9,55.7,-114.6,50.7,-126,36],[-117,83.7,-127.2,64.2,-136.2,57.9],[-91.2,44.4,-113.4,33.3,-120.6,24.3]]],"8":["rubble",1310,456,210,145,-189,-39,[[-3.6,27,-12.9,10,-24.6,4.4,-36,-11],[-27,38.7,-37.2,18.3,-46.2,11.4],[-1.2,-1.6,-23.4,-13.5,-30.6,-23.2],[-93.6,72,-102.9,55,-114.6,49.4,-126,34],[-117,83.7,-127.2,63.3,-136.2,56.4],[-91.2,43.4,-113.4,31.5,-120.6,21.8]]],"9":["rubble",1521,456,210,144,-189,-42,[[-3.6,27,-12.9,9.3,-24.6,3.1,-36,-13],[-27,38.7,-37.2,17.4,-46.2,9.9],[-1.2,-2.6,-23.4,-15.3,-30.6,-25.7],[-93.6,72,-102.9,54.3,-114.6,48.1,-126,32],[-117,83.7,-127.2,62.4,-136.2,54.9],[-91.2,42.4,-113.4,29.7,-120.6,19.3]]],"left":["rubble",678,652,183,111,-171,-9,[]]},"rubble_arena_south":{"3":["rubble",1618,652,152,96,-22,-25,[[13.2,31.8,14.4,22.6,38.4,17.8,43.2,10.4],[44.4,47.4,55.2,31.8,67.2,29.4],[7.2,6.4,26.4,4.8,43.8,-4.1]]],"4":["rubble",1465,652,152,98,-22,-26,[[13.2,31.8,22.8,17.7,38.4,16.5,43.2,8.4],[44.4,47.4,55.2,30.9,67.2,27.9],[7.2,5.4,26.4,3,43.8,-6.6]]],"6":["rubble",1312,652,152,102,-22,-30,[[13.2,31.8,22.8,16.3,38.4,13.9,51,0.5],[44.4,47.4,55.2,29.1,67.2,24.9],[7.2,3.4,34.2,-4.5,43.8,-11.6]]],"7":["rubble",1160,652,151,104,-21,-33,[[13.2,31.8,22.8,15.6,38.4,12.6,51,-1.5],[44.4,47.4,55.2,28.2,67.2,23.4],[7.2,2.4,34.2,-6.3,43.8,-14.1]]],"8":["rubble",1011,652,148,107,-19,-36,[[13.2,31.8,22.8,14.9,38.4,11.3,51,-3.5],[44.4,47.4,55.2,27.3,67.2,21.9],[7.2,1.4,34.2,-8.1,43.8,-16.6]]],"9":["rubble",862,652,148,110,-19,-38,[[13.2,31.8,22.8,14.2,38.4,10,51,-5.5],[44.4,47.4,55.2,26.4,67.2,20.4],[7.2,0.4,34.2,-9.9,43.8,-19.1]]]}}};

diff --git a/js/techabilities.js b/js/techabilities.js
@@ -1510,15 +1510,18 @@ function _techArcScr(x0, y0, x1, y1, z0, z1, peak, t) {
 // ── THE RUBBLE, AND THE HOLE IT LEAVES: drawn on the face of the room's edge like its decor (js/facilitydecor.js FP_WALL_KINDS.rubble asks this), u along the stretch, z px up from the floor ──
 // Broken rock lighter than the cliff round it, a cracked slab with hazard paint across it and seams that glow as it is drilled; boulders fall away with each hit. Drilled through: a dark hole, scorched round its mouth.
 const _TECH_RUBBLE = [[0.2, 0, 0.2, 22], [0.44, 0, 0.24, 26], [0.7, 0, 0.22, 24], [0.88, 0, 0.14, 16], [0.31, 17, 0.2, 22], [0.57, 19, 0.22, 24], [0.79, 15, 0.16, 18], [0.43, 36, 0.2, 20], [0.63, 38, 0.15, 16]];
-// the seams between a pile's stones: dull at first, glowing hotter with each hit (P: a point of the pile, u along it and z px up)
-function _techRubbleSeams(P, heat, f, sg) {
-    ctx.globalCompositeOperation = "lighter"; ctx.lineCap = "round";
-    const glow = 0.25 + 0.75 * heat, pul = 0.75 + 0.25 * Math.sin(f * 0.15 + sg);
-    for (const seam of [[[0.32, 0], [0.33, 14], [0.46, 26], [0.5, 40]], [[0.58, 0], [0.6, 18], [0.7, 30]], [[0.2, 20], [0.36, 36], [0.44, 50]]]) {
-        ctx.strokeStyle = "rgba(255,120,40," + (0.22 * glow * pul).toFixed(3) + ")"; ctx.lineWidth = 7; ctx.beginPath(); seam.forEach((q, i) => { const p = P(q[0], q[1]); i ? ctx.lineTo(p[0], p[1]) : ctx.moveTo(p[0], p[1]); }); ctx.stroke();
+// the seams between a modelled pile's stones (js/caverubble.js: baked on the stones' front, as the pile stands at that stage): dull at first, glowing hotter with each hit, as the drawn pile's
+// (p0: the screen point of the patch's start; seams: [x, y, x, y, ...] from it, three to a pile, each pile's pulsing together)
+function _techRubbleSeamsAt(p0, seams, heat, f) {
+    ctx.globalCompositeOperation = "lighter"; ctx.lineCap = "round"; ctx.lineJoin = "round";
+    const glow = 0.25 + 0.75 * heat;
+    seams.forEach((sq, i) => {
+        const pul = 0.75 + 0.25 * Math.sin(f * 0.15 + Math.floor(i / 3)); ctx.beginPath();
+        for (let k = 0; k + 1 < sq.length; k += 2) { const x = p0[0] + sq[k], y = p0[1] + sq[k + 1]; k ? ctx.lineTo(x, y) : ctx.moveTo(x, y); }
+        ctx.strokeStyle = "rgba(255,120,40," + (0.22 * glow * pul).toFixed(3) + ")"; ctx.lineWidth = 7; ctx.stroke();
         ctx.strokeStyle = "rgba(255,190,90," + (0.5 * glow * pul).toFixed(3) + ")"; ctx.lineWidth = 2; ctx.stroke();
-    }
-    ctx.globalCompositeOperation = "source-over"; ctx.lineCap = "butt";
+    });
+    ctx.globalCompositeOperation = "source-over";
 }
 function techDrawRubbleOn(it, f) {
     if (typeof _fpWP !== "function" || typeof ctx === "undefined") return;
@@ -1547,8 +1550,9 @@ function techDrawRubbleOn(it, f) {
         ctx.restore(); return;
     }
     const hits = (_techRubbleHits()[r.id] || 0), heat = hits / TECH_AB.drill.hits, show = _TECH_RUBBLE.length - Math.floor(hits * _TECH_RUBBLE.length / (TECH_AB.drill.hits + 1));
-    if (typeof caveRubbleDraw === "function" && caveRubbleDraw(it, String(show))) {   // THE PILE IN THE CAVE'S ROCK (js/cavewalls.js; on the preview until approved): its stones as the drilling has left them, and the seams glowing over it
-        for (let sg = 0; sg < segs; sg++) _techRubbleSeams((u, z) => _fpWP(it, (sg + u) / segs, z), heat, f, sg);
+    const rock = typeof caveRubbleDraw === "function" && caveRubbleDraw(it, String(show));
+    if (rock) {   // THE PILE IN THE CAVE'S ROCK (js/cavewalls.js; on the preview until approved): its stones as the drilling has left them, and the seams glowing on them
+        _techRubbleSeamsAt(_fpWP(it, 0, 0), rock[7] || [], heat, f);
         ctx.restore(); return;
     }
     const shades = ["#a8967e", "#8e7c66", "#bba98f", "#9a8670"];

diff --git a/js/cavewalls.js b/js/cavewalls.js
@@ -66,7 +66,8 @@ function _caveRubbleSheet() {
     if (typeof document === "undefined" || !document.createElement) return (_caveRubbleImg = null);
     const im = document.createElement("img"); im.decoding = "async"; im.src = CAVE_RUBBLE.sheet + (typeof BUILD_VERSION !== "undefined" ? "?v=" + BUILD_VERSION : ""); _caveRubbleImg = im; return null;
 }
-// draw a rubble patch's picture: `stage` the stones shown ("9" ... "3") or "left" (what a drilled choke leaves); false when it has none or the sheet has not arrived (the drawn pile instead)
+// draw a rubble patch's picture: `stage` the stones shown ("9" ... "3") or "left" (what a drilled choke leaves); its atlas entry when drawn (e[7]: its seams, on the screen from the patch's start),
+// false when it has none or the sheet has not arrived (the drawn pile instead)
 function caveRubbleDraw(it, stage) {
     if (!caveRubbleOn() || typeof CAVE_RUBBLE === "undefined") return false;
     const P = CAVE_RUBBLE.items[it.rubble], e = P && P[stage]; if (!e) return false;
@@ -75,6 +76,6 @@ function caveRubbleDraw(it, stage) {
     const k = ctx._k === undefined ? 1 : ctx._k, bucket = k < 0.1 ? 0 : Math.min(PS_DIM_STEPS, Math.round(k * PS_DIM_STEPS)), key = "rubble|" + it.rubble + "|" + stage;
     if (bucket >= PS_DIM_STEPS) { const cell = typeof spriteCell === "function" ? spriteCell(img, e[1], e[2], e[3], e[4]) : null; if (cell) ctx.drawImage(cell, x, y); else ctx.drawImage(img, e[1], e[2], e[3], e[4], x, y, e[3], e[4]); }
     else { const d = _caveDimmed(key, img, e, bucket); if (d) ctx.drawImage(d, x, y); else ctx.drawImage(img, e[1], e[2], e[3], e[4], x, y, e[3], e[4]); }
-    return true;
+    return e;
 }
 
